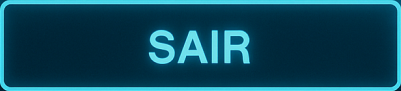
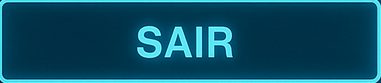
Melhorias estéticas no menu

Changed region(s): [[0.0, 0.0, 1.0, 1.0], [0.3176, 0.241, 0.6352, 0.7229]]

diff --git a/main.py b/main.py
@@ -17,6 +17,7 @@ icone = pygame.image.load("Recursos/icone.png")
 pygame.display.set_icon(icone)
 branco = (255,255,255)
 preto = (0, 0 ,0 )
+azul = (0, 221, 252)
 menuTron = pygame.image.load("Recursos/menuTron.png")
 menuJogar = pygame.image.load("Recursos/menuJogar.png")
 menuSair = pygame.image.load("Recursos/menuSair.png")
@@ -28,7 +29,7 @@ mainFundo = pygame.image.load("Recursos/mainFundo.png")
 fundoMorte = pygame.image.load("Recursos/fundoMorte.png")
 #somColisao = pygame.mixer.Sound("assets/missile.wav")
 #somMoeda = pygame.mixer.Sound("assets/explosao.wav")
-fonteNome = pygame.font.SysFont("arial",120)
+fonteNome = pygame.font.SysFont("TRON",50)
 pygame.mixer.music.load("Recursos/somMenu.mp3")
 pygame.mixer.music.play(-1)
 
@@ -186,12 +187,12 @@ def capturar_nome():
     root.mainloop()
 
 def start():
-    larguraButtonJogar = 401
-    alturaButtonJogar  = 91
-    larguraButtonSair = 401
-    alturaButtonSair  = 91
-    larguraButtonCreditos = 401
-    alturaButtonCreditos = 91
+    larguraButtonJogar = 380
+    alturaButtonJogar  = 85
+    larguraButtonSair = 380
+    alturaButtonSair  = 85
+    larguraButtonCreditos = 380
+    alturaButtonCreditos = 85
 
     while True:
         for evento in pygame.event.get():
@@ -199,29 +200,29 @@ def start():
                 quit()
             elif evento.type == pygame.MOUSEBUTTONDOWN:
                 if jogarRect.collidepoint(evento.pos):
-                    larguraButtonJogar = 401
-                    alturaButtonJogar  = 91
+                    larguraButtonJogar = 380
+                    alturaButtonJogar  = 85
                 if sairRect.collidepoint(evento.pos):
-                    larguraButtonSair = 401
-                    alturaButtonSair  = 91
+                    larguraButtonSair = 380
+                    alturaButtonSair  = 85
 
                 
             elif evento.type == pygame.MOUSEBUTTONUP:
                 if jogarRect.collidepoint(evento.pos):
                     #pygame.mixer.music.play(-1)
-                    larguraButtonJogar = 401
-                    alturaButtonJogar  = 91
+                    larguraButtonJogar = 380
+                    alturaButtonJogar  = 45
                     capturar_nome()
                     telaBoasVindas()
                 if sairRect.collidepoint(evento.pos):
                     #pygame.mixer.music.play(-1)
-                    larguraButtonSair = 401
-                    alturaButtonSair  = 91
+                    larguraButtonSair = 380
+                    alturaButtonSair  = 85
                     quit()
                 if creditosRect.collidepoint(evento.pos):
                     #pygame.mixer.music.play(-1)
-                    larguraButtonCreditos = 401
-                    alturaButtonCreditos = 91
+                    larguraButtonCreditos = 380
+                    alturaButtonCreditos = 85
                     creditos()
                     
             
@@ -229,16 +230,16 @@ def start():
         tela.blit(menuTron, (0,0) )
 
         jogarButton = pygame.image.load("Recursos/menuJogar.png")
-        jogarRect = jogarButton.get_rect(topleft=(300, 270))
-        tela.blit(jogarButton, (300,270))
+        jogarRect = jogarButton.get_rect(topleft=(315, 235))
+        tela.blit(jogarButton, (315, 235))
         
         sairButton = pygame.image.load("Recursos/menuSair.png")
-        sairRect = sairButton.get_rect(topleft=(300, 385))
-        tela.blit(sairButton, (300,385))
+        sairRect = sairButton.get_rect(topleft=(315, 345))
+        tela.blit(sairButton, (315, 345))
         
         creditosButton = pygame.image.load("Recursos/menuCreditos.png")
-        creditosRect = creditosButton.get_rect(topleft=(300, 500))
-        tela.blit(creditosButton, (300,500))
+        creditosRect = creditosButton.get_rect(topleft=(315, 455))
+        tela.blit(creditosButton, (315, 455))
         
         pygame.display.update()
         relogio.tick(60)
@@ -323,13 +324,13 @@ def dead():
 
 def telaBoasVindas():
     fundoBoasVindas = pygame.image.load("Recursos/fundoBoasVindas.png")
-    textoBemVindo = fonteNome.render(f"{nome}", True, branco)
+    textoBemVindo = fonteNome.render(f"Bem-Vindo {nome}\nRecolha os fragmentos da sua nave e sobreviva\nPressione ESPAÇO para Pausar\n", True, azul)
     #falar("Bem Vindo", nome)
 
     while True:
         tela.fill(branco)
         tela.blit(fundoBoasVindas, (0, 0))
-        tela.blit(textoBemVindo, (450, 0))
+        tela.blit(textoBemVindo, (100, 0))
 
         for evento in pygame.event.get():
             if evento.type == pygame.QUIT:
